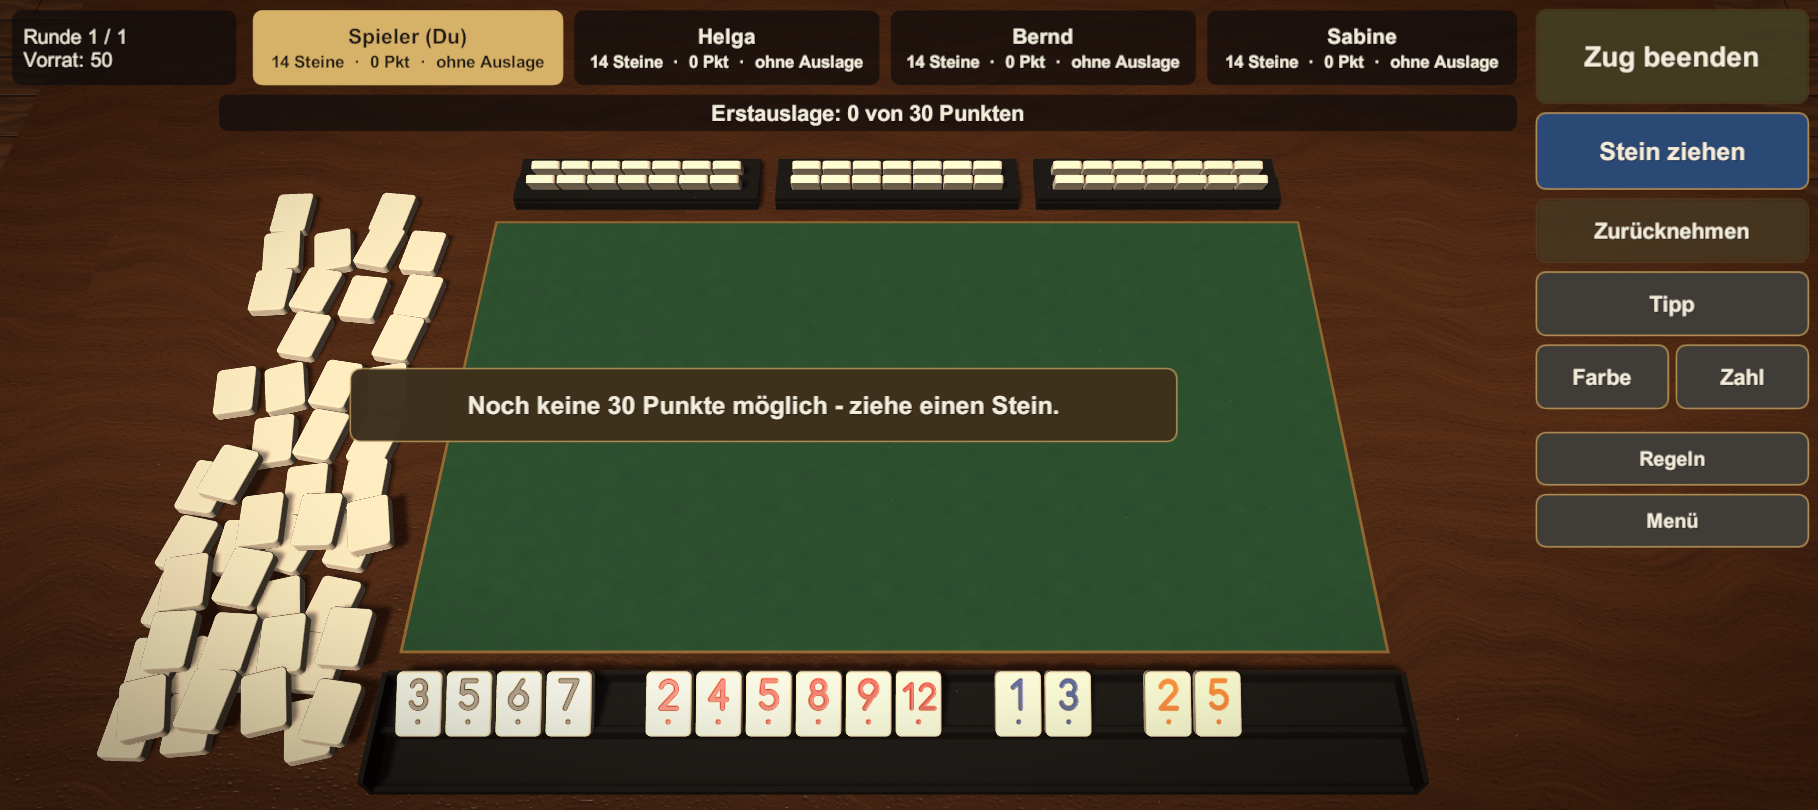
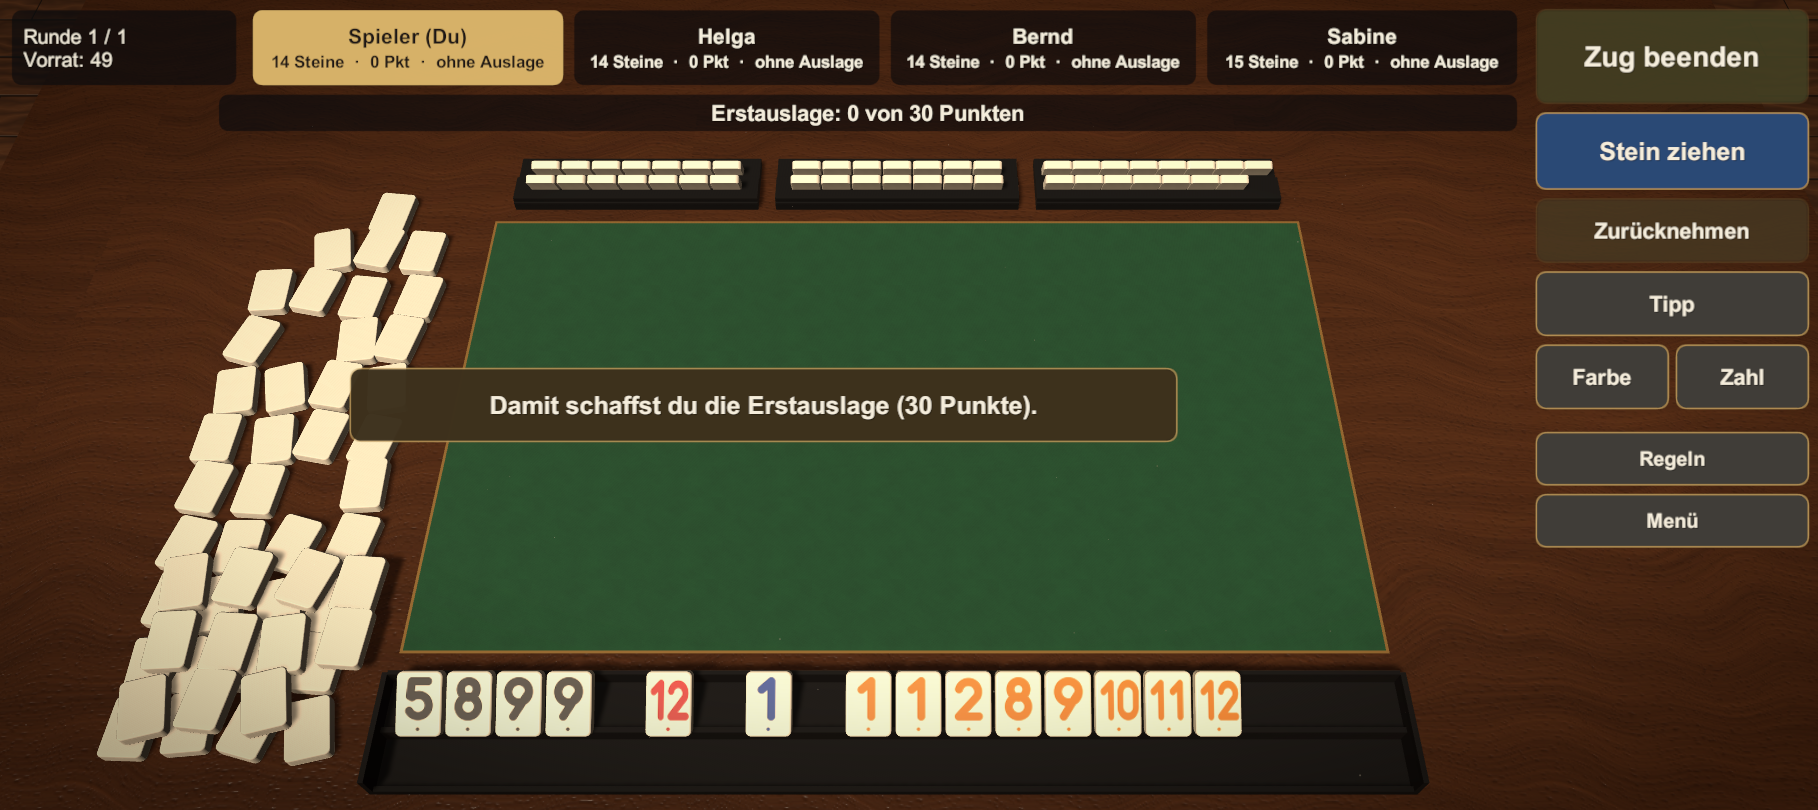
Bessere Lesbarkeit von Zahlen auf Steinen und Karten (2.1.0)
- Rummikub: Zahlen größer und fetter, zweistellige Zahlen schmaler gesetzt, Punkt abgesetzt,
  weniger Glanz gegen Spiegelung auf der Bank
- Rommé: Index in den Ecken deutlich größer und fetter, Kartensymbole nach innen gerückt,
  Handkarten und Tischkombinationen größer und stärker zur Kamera geneigt
- Version 2.1.0 (Code 3)

diff --git a/Assets/Scripts/Rummikub/View/TileArt.cs b/Assets/Scripts/Rummikub/View/TileArt.cs
@@ -10,7 +10,7 @@ namespace RommeCup.Rummikub
         public static readonly Color[] Ink = { new Color(.09f, .09f, .1f), new Color(.76f, .08f, .09f), new Color(.06f, .24f, .6f), new Color(.92f, .48f, .04f) };
         public static readonly Color Ivory = new Color(.95f, .925f, .86f), IvoryDark = new Color(.9f, .87f, .79f);
         static readonly Dictionary<int, Texture2D> normals = new Dictionary<int, Texture2D>();
-        const float NumBase = 98;
+        const float NumBase = 70, Dot = 27;
 
         static void Base(Pix p, int seed)
         {
@@ -22,14 +22,16 @@ namespace RommeCup.Rummikub
             p.Noise(.012f, seed);
         }
 
+        static float Sx(string s) => s.Length > 1 ? .8f : 1f;
+
         static void NumberShape(string s, out float ox, out float h, out float th)
         {
-            h = s.Length > 1 ? 82 : 94; float w = Glyphs.Width(s) * h;
-            if (w > W - 26) { h *= (W - 26) / w; w = W - 26; }
-            ox = W / 2f - w / 2; th = h * .092f;
+            h = s.Length > 1 ? 112 : 120; float w = Glyphs.Width(s) * h * Sx(s);
+            if (w > W - 22) { h *= (W - 22) / w; w = W - 22; }
+            ox = W / 2f - w / 2; th = h * .115f;
         }
 
-        static float NumSdf(string s, float x, float y, float ox, float h, float th) => Glyphs.Dist(s, x, y, ox, NumBase, h) - th;
+        static float NumSdf(string s, float x, float y, float ox, float h, float th) => Glyphs.Dist(s, ox + (x - ox) / Sx(s), y, ox, NumBase, h) - th;
 
         public static Texture2D Face(int kind)
         {
@@ -40,9 +42,9 @@ namespace RommeCup.Rummikub
             NumberShape(s, out var ox, out var h, out var th);
             float x0 = 0, y0 = NumBase - 22, y1 = NumBase + h + 22;
             p.Draw((x, y) => NumSdf(s, x, y, ox, h, th) + 1.2f, new Color(0, 0, 0, .28f), x0, y0, W, y1, 2.5f);
-            p.Draw((x, y) => NumSdf(s, x, y, ox, h, th), (x, y) => { float k = Mathf.Clamp01((y - NumBase) / h); return Color.Lerp(ink * .82f, ink, k * .6f + .2f); }, x0, y0, W, y1);
-            p.Draw((x, y) => Sdf.Circle(x, y, W / 2f, 52, 9) + 1, new Color(0, 0, 0, .22f), W / 2f - 16, 36, W / 2f + 16, 68, 2);
-            p.Draw((x, y) => Sdf.Circle(x, y, W / 2f, 52, 9), ink * .9f, W / 2f - 14, 38, W / 2f + 14, 66);
+            p.Draw((x, y) => NumSdf(s, x, y, ox, h, th), (x, y) => { float k = Mathf.Clamp01((y - NumBase) / h); return Color.Lerp(ink * .9f, ink, k * .5f + .3f); }, x0, y0, W, y1);
+            p.Draw((x, y) => Sdf.Circle(x, y, W / 2f, Dot, 6) + 1, new Color(0, 0, 0, .22f), W / 2f - 14, Dot - 14, W / 2f + 14, Dot + 14, 2);
+            p.Draw((x, y) => Sdf.Circle(x, y, W / 2f, Dot, 6), ink * .9f, W / 2f - 12, Dot - 12, W / 2f + 12, Dot + 12);
             Edge(p);
             return p.Tex();
         }
@@ -62,9 +64,9 @@ namespace RommeCup.Rummikub
                 string s = key.ToString();
                 NumberShape(s, out var ox, out var h, out var th);
                 p.Height((x, y) => NumSdf(s, x, y, ox, h, th), -1.1f, 2.4f, 0, NumBase - 22, W, NumBase + h + 22);
-                p.Height((x, y) => Sdf.Circle(x, y, W / 2f, 52, 9), -1f, 2.2f, W / 2f - 14, 38, W / 2f + 14, 66);
+                p.Height((x, y) => Sdf.Circle(x, y, W / 2f, Dot, 6), -1f, 2.2f, W / 2f - 12, Dot - 12, W / 2f + 12, Dot + 12);
             }
-            t = p.NormalTex(2.4f);
+            t = p.NormalTex(1.8f);
             normals[key] = t;
             return t;
         }

diff --git a/Assets/Scripts/Karten/View/CardArt.cs b/Assets/Scripts/Karten/View/CardArt.cs
@@ -52,22 +52,23 @@ namespace RommeCup.Karten
             p.Draw((x, y) => SuitSdf(suit, x, y, cx, cy, s, flip), c, cx - r, cy - r, cx + r, cy + r, 1.1f);
         }
 
-        static void Rank(Pix p, string s, float cx, float top, float h, bool flip, Color c)
+        static void Rank(Pix p, string s, float cx, float top, float h, bool flip, Color c, float sx = 1, float weight = .085f)
         {
-            float w = Glyphs.Width(s) * h, ox = cx - w / 2, oy = top - h, th = h * .085f;
-            float x0 = ox - 8, x1 = ox + w + 8, y0 = oy - 8, y1 = oy + h + 8;
-            if (flip) p.Draw((x, y) => Glyphs.Dist(s, W - x, H - y, ox, oy, h) - th, c, W - x1, H - y1, W - x0, H - y0, 1.1f);
-            else p.Draw((x, y) => Glyphs.Dist(s, x, y, ox, oy, h) - th, c, x0, y0, x1, y1, 1.1f);
+            float w = Glyphs.Width(s) * h * sx, ox = cx - w / 2, oy = top - h, th = h * weight;
+            float x0 = ox - 10, x1 = ox + w + 10, y0 = oy - 10, y1 = oy + h + 10;
+            if (flip) p.Draw((x, y) => Glyphs.Dist(s, ox + (W - x - ox) / sx, H - y, ox, oy, h) - th, c, W - x1, H - y1, W - x0, H - y0, 1.1f);
+            else p.Draw((x, y) => Glyphs.Dist(s, ox + (x - ox) / sx, y, ox, oy, h) - th, c, x0, y0, x1, y1, 1.1f);
         }
 
         static void Index(Pix p, int suit, string s, Color ink)
         {
-            float h = s.Length > 1 ? 32 : 36, cx = 25;
+            bool two = s.Length > 1;
+            float h = two ? 48 : 52, sx = two ? .66f : 1, cx = 27, top = H - 12;
             foreach (var f in new[] { false, true })
             {
-                Rank(p, s, cx, H - 14, h, f, ink);
-                float sy = H - 14 - h - 20;
-                Sym(p, suit, f ? W - cx : cx, f ? H - sy : sy, 11, f, ink);
+                Rank(p, s, cx, top, h, f, ink, sx, .12f);
+                float sy = top - h - 22;
+                Sym(p, suit, f ? W - cx : cx, f ? H - sy : sy, 15, f, ink);
             }
         }
 
@@ -98,8 +99,8 @@ namespace RommeCup.Karten
                 var pp = Pips[rank];
                 for (int i = 0; i < pp.Length; i += 2)
                 {
-                    float px = W / 2f + (pp[i] - .5f) * 92, py = 62 + pp[i + 1] * 190;
-                    Sym(p, suit, px, py, 21, pp[i + 1] < .49f, ink);
+                    float px = W / 2f + (pp[i] - .5f) * 70, py = 64 + pp[i + 1] * 186;
+                    Sym(p, suit, px, py, 17, pp[i + 1] < .49f, ink);
                 }
             }
             return p.Tex();
@@ -118,7 +119,7 @@ namespace RommeCup.Karten
 
         static void Court(Pix p, int suit, int rank, Color ink)
         {
-            float fx0 = 40, fx1 = W - 40, fy0 = 40, fy1 = H - 40, cx = W / 2f, mid = H / 2f;
+            float fx0 = 50, fx1 = W - 50, fy0 = 40, fy1 = H - 40, cx = W / 2f, mid = H / 2f;
             p.Draw((x, y) => Mathf.Abs(Sdf.Box(x, y, cx, mid, (fx1 - fx0) / 2, (fy1 - fy0) / 2, 3)) - 1.1f, ink);
             Color a = suit % 2 == 0 ? CRed : CBlue, b = suit % 2 == 0 ? CBlue : CRed, line = Black;
             Func<float, float, float> robe = (x, y) => Sdf.Poly(x, y, new[] { new Vector2(cx - 58, mid), new Vector2(cx + 58, mid), new Vector2(cx + 40, mid + 54), new Vector2(cx - 40, mid + 54) });

diff --git a/Assets/Scripts/Karten/View/CardTable.cs b/Assets/Scripts/Karten/View/CardTable.cs
@@ -35,7 +35,7 @@ namespace RommeCup.Karten
     public class CardTable
     {
         const string M = "CardTable";
-        public const float CW = 1f, CD = 1.4f, TH = .008f, HandZ = -5.1f, StageZ = -2.9f, PileZ = 5.0f, TopZ = 7.3f, SideX = 10.6f, MeldTop = 3.1f, HandScale = 1.3f, MeldScale = 1.2f, PileScale = 1.22f, CardStep = .0062f;
+        public const float CW = 1f, CD = 1.4f, TH = .008f, HandZ = -5.1f, StageZ = -2.9f, PileZ = 5.0f, TopZ = 7.3f, SideX = 10.6f, MeldTop = 3.1f, HandScale = 1.45f, MeldScale = 1.32f, PileScale = 1.22f, CardStep = .0062f;
         static readonly Quaternion Down = Quaternion.Euler(0, 0, 180);
         static readonly Vector3 StockPos = new Vector3(-2.1f, 0, PileZ), DiscPos = new Vector3(1.9f, 0, PileZ);
         public Camera Cam => Env.Cam;
@@ -186,7 +186,7 @@ namespace RommeCup.Karten
                 float th = (i - (n - 1) / 2f) * step * Mathf.Deg2Rad;
                 var dir = new Vector3(Mathf.Sin(th), 0, Mathf.Cos(th));
                 var pos = new Vector3(0, 0, HandZ - R) + dir * (R + (sel ? .55f : 0)) + Vector3.up * (.05f + .012f * i + (sel ? .3f : 0));
-                var rot = Quaternion.Euler(0, th * Mathf.Rad2Deg, 0) * Quaternion.Euler(sel ? -14 : -20, 0, 0);
+                var rot = Quaternion.Euler(0, th * Mathf.Rad2Deg, 0) * Quaternion.Euler(sel ? -22 : -30, 0, 0);
                 Put(used, d, c, Cards.Face(c), BackOf(c), pos, rot, CTag.Hand, i, c, sel ? (d.SelValid ? green : warm) : none, d.Hint.Contains(c), HandScale, false, d.Deal ? .3f + i * (d.N) * .07f : 0);
             }
             PlaceGroups(used, d, d.Staged, StageZ, CTag.Staged, 1.08f, green);

diff --git a/Assets/Editor/BuildScript.cs b/Assets/Editor/BuildScript.cs
@@ -40,7 +40,7 @@ namespace RommeCup.EditorTools
             PlayerSettings.SetIcons(NamedBuildTarget.Unknown, new[] { iconAsset }, IconKind.Any);
             PlayerSettings.companyName = "Domezos";
             PlayerSettings.productName = "Romme Cup Variety";
-            PlayerSettings.bundleVersion = "2.0.0";
+            PlayerSettings.bundleVersion = "2.1.0";
             PlayerSettings.SetApplicationIdentifier(NamedBuildTarget.Android, "com.domezos.rommecupvariety");
             PlayerSettings.SetScriptingBackend(NamedBuildTarget.Android, ScriptingImplementation.IL2CPP);
             PlayerSettings.SetManagedStrippingLevel(NamedBuildTarget.Android, ManagedStrippingLevel.Minimal);
@@ -55,7 +55,7 @@ namespace RommeCup.EditorTools
                 AndroidExternalToolsSettings.sdkRootPath = sdk;
                 Debug.Log("[RC] sdk=" + sdk);
             }
-            PlayerSettings.Android.bundleVersionCode = 2;
+            PlayerSettings.Android.bundleVersionCode = 3;
             PlayerSettings.Android.applicationEntry = AndroidApplicationEntry.Activity;
             PlayerSettings.defaultInterfaceOrientation = UIOrientation.AutoRotation;
             PlayerSettings.allowedAutorotateToPortrait = false;

diff --git a/Assets/Scripts/Rummikub/View/BoardView.cs b/Assets/Scripts/Rummikub/View/BoardView.cs
@@ -64,7 +64,7 @@ namespace RommeCup.Rummikub
             mesh = TileMesh.Build(TW, TD, TH, .13f, .055f);
             for (int k = 0; k < 53; k++)
             {
-                faces[k] = Mats.Lit(Color.white, 0, .58f, TileArt.Face(k), TileArt.Normal(k), 1f);
+                faces[k] = Mats.Lit(Color.white, 0, .42f, TileArt.Face(k), TileArt.Normal(k), 1f);
                 progress?.Invoke((k + 1) / 60f);
                 if (k % 3 == 2) yield return null;
             }
